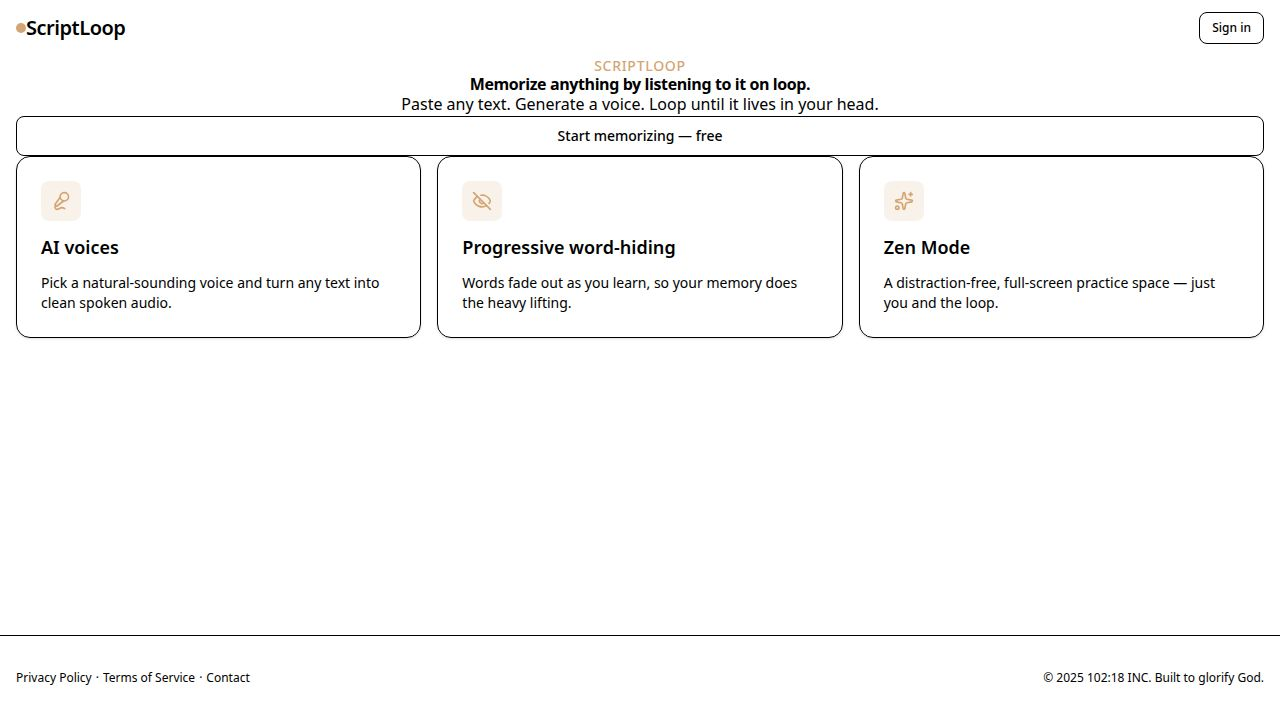
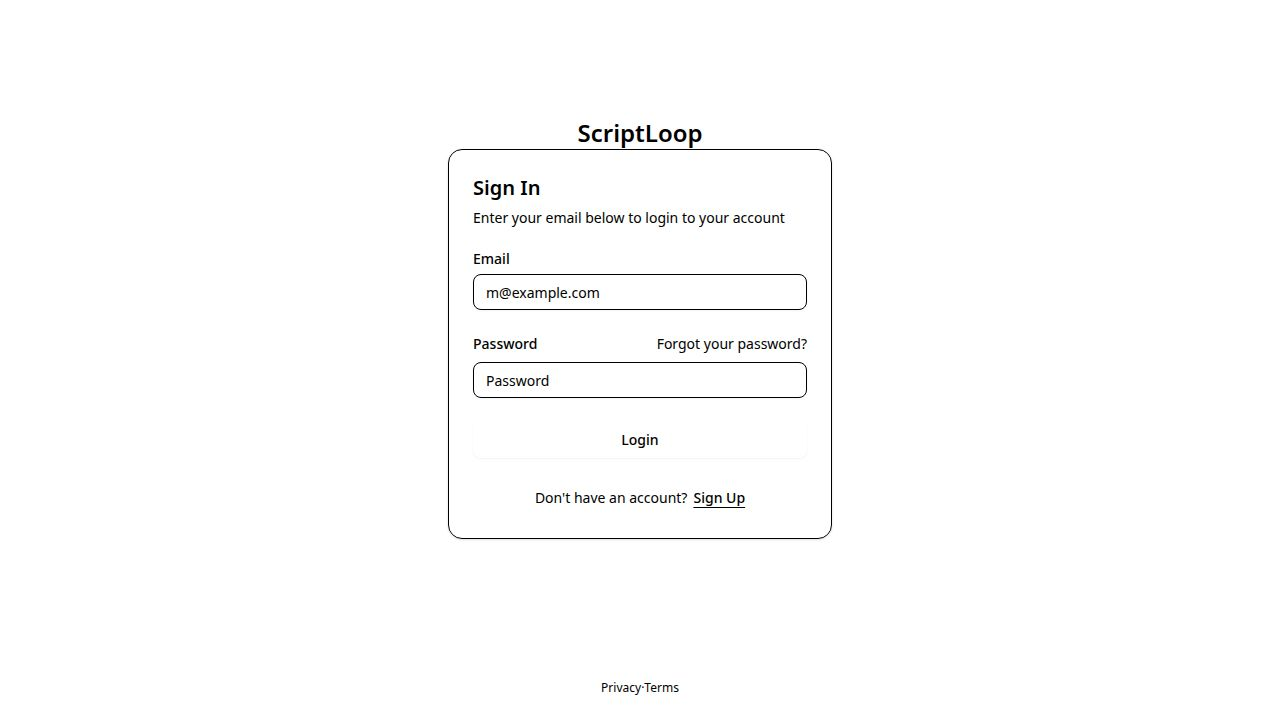
Update script creation to handle audio uploads and clarify R2 object lifecycle
Adjusted `scripts.ts` to use atomic endpoint for audio uploads and refined comments regarding R2 object lifecycle management.

Replit-Commit-Author: Agent
Replit-Commit-Session-Id: b05ca157-8bab-4980-8663-b2cbb9ad39b6
Replit-Commit-Checkpoint-Type: full_checkpoint
Replit-Commit-Event-Id: 2fd71ec6-5a63-40c4-87d7-53e52314862d
Replit-Commit-Screenshot-Url: https://storage.googleapis.com/screenshot-production-us-central1/aa8b9d02-3ed9-4402-acee-3606e907f08d/b05ca157-8bab-4980-8663-b2cbb9ad39b6/r5A9sV2

diff --git a/artifacts/scriptloop/netlify/functions/scripts.ts b/artifacts/scriptloop/netlify/functions/scripts.ts
@@ -218,9 +218,9 @@ async function handleCreateWithAudio(
     throw e;
   }
 
-  // Audio is in R2 and never referenced by a row if INSERT fails — the
-  // orphaned object is harmless and naturally cycled by R2 lifecycle policy
-  // (or future cleanup task). The important invariant is: no orphan ROW.
+  // If the INSERT below fails, the uploaded R2 object is left
+  // unreferenced — harmless, and orphan-object cleanup is out of scope.
+  // The invariant this endpoint guarantees is: no orphan script ROW.
   let newScript;
   try {
     [newScript] = await db